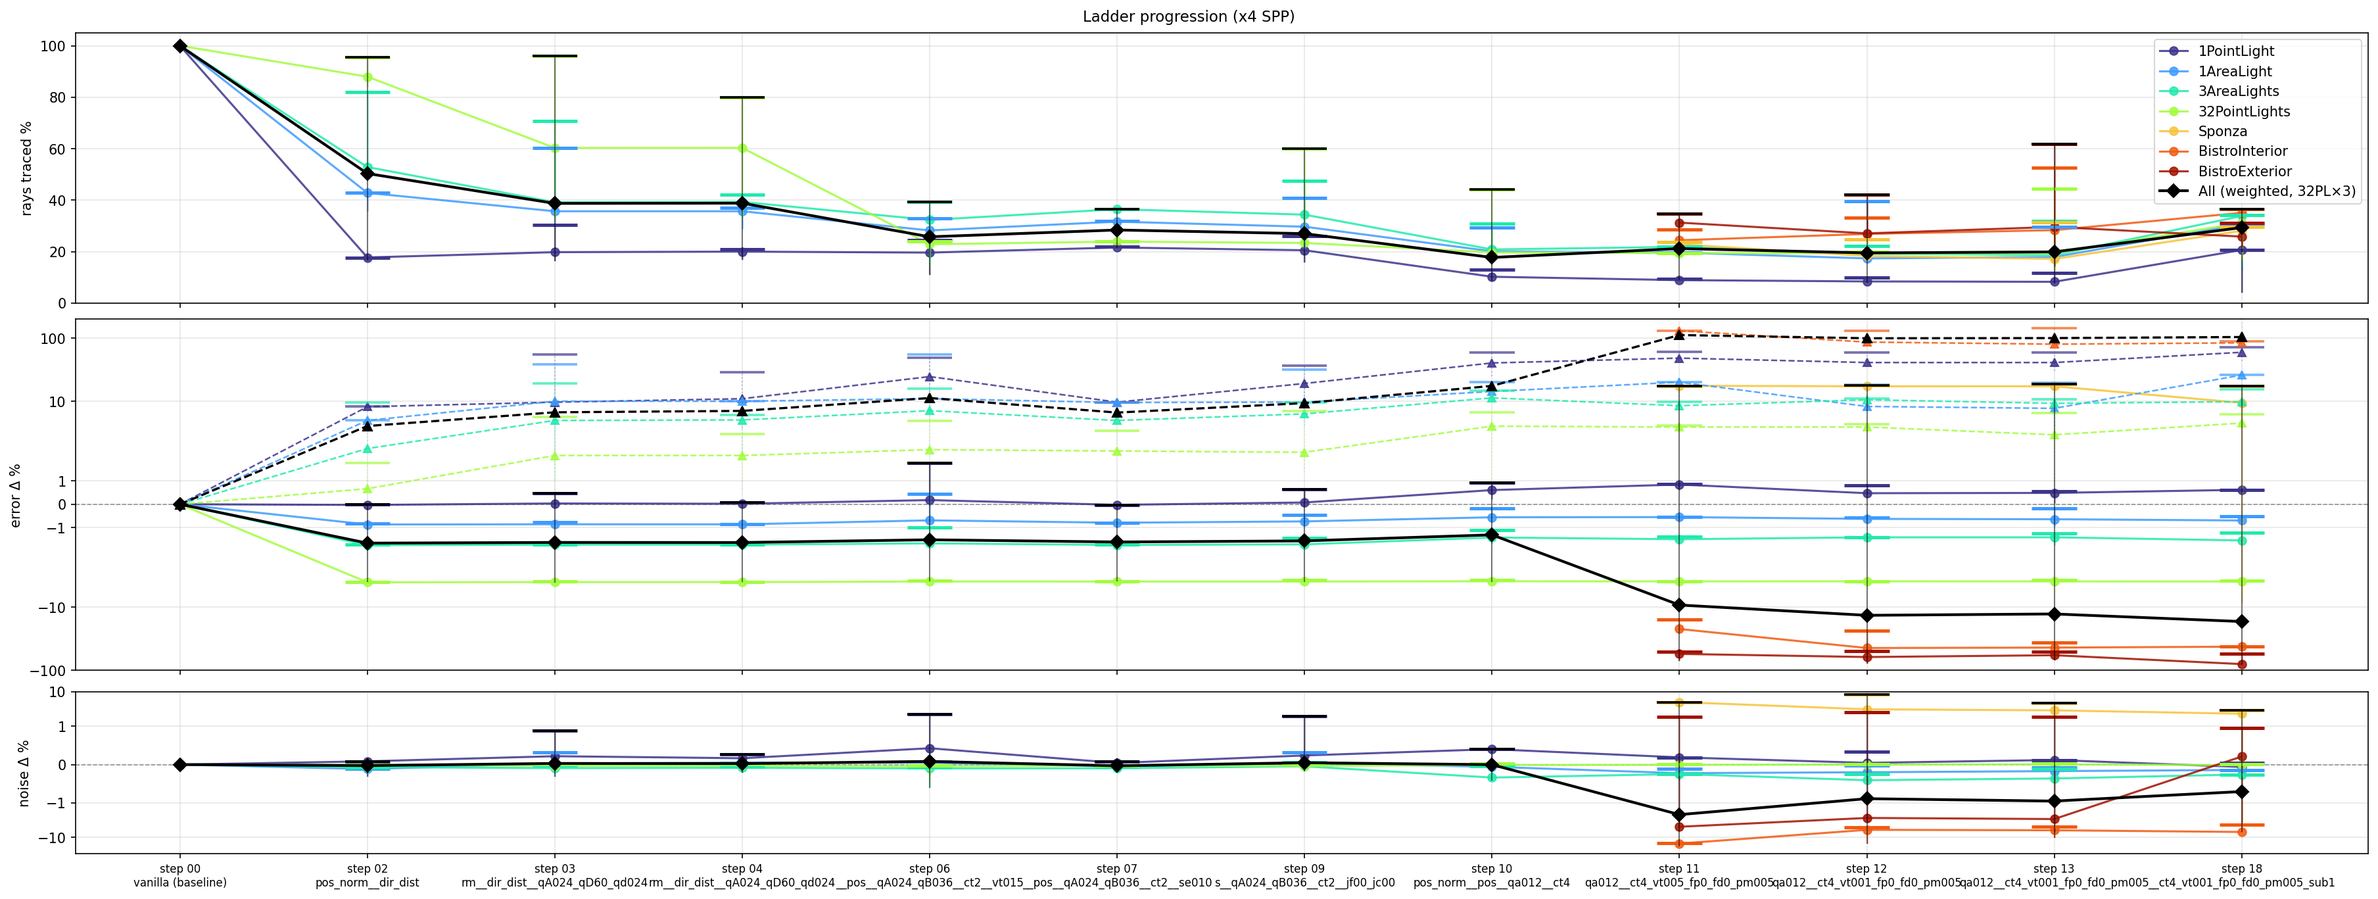
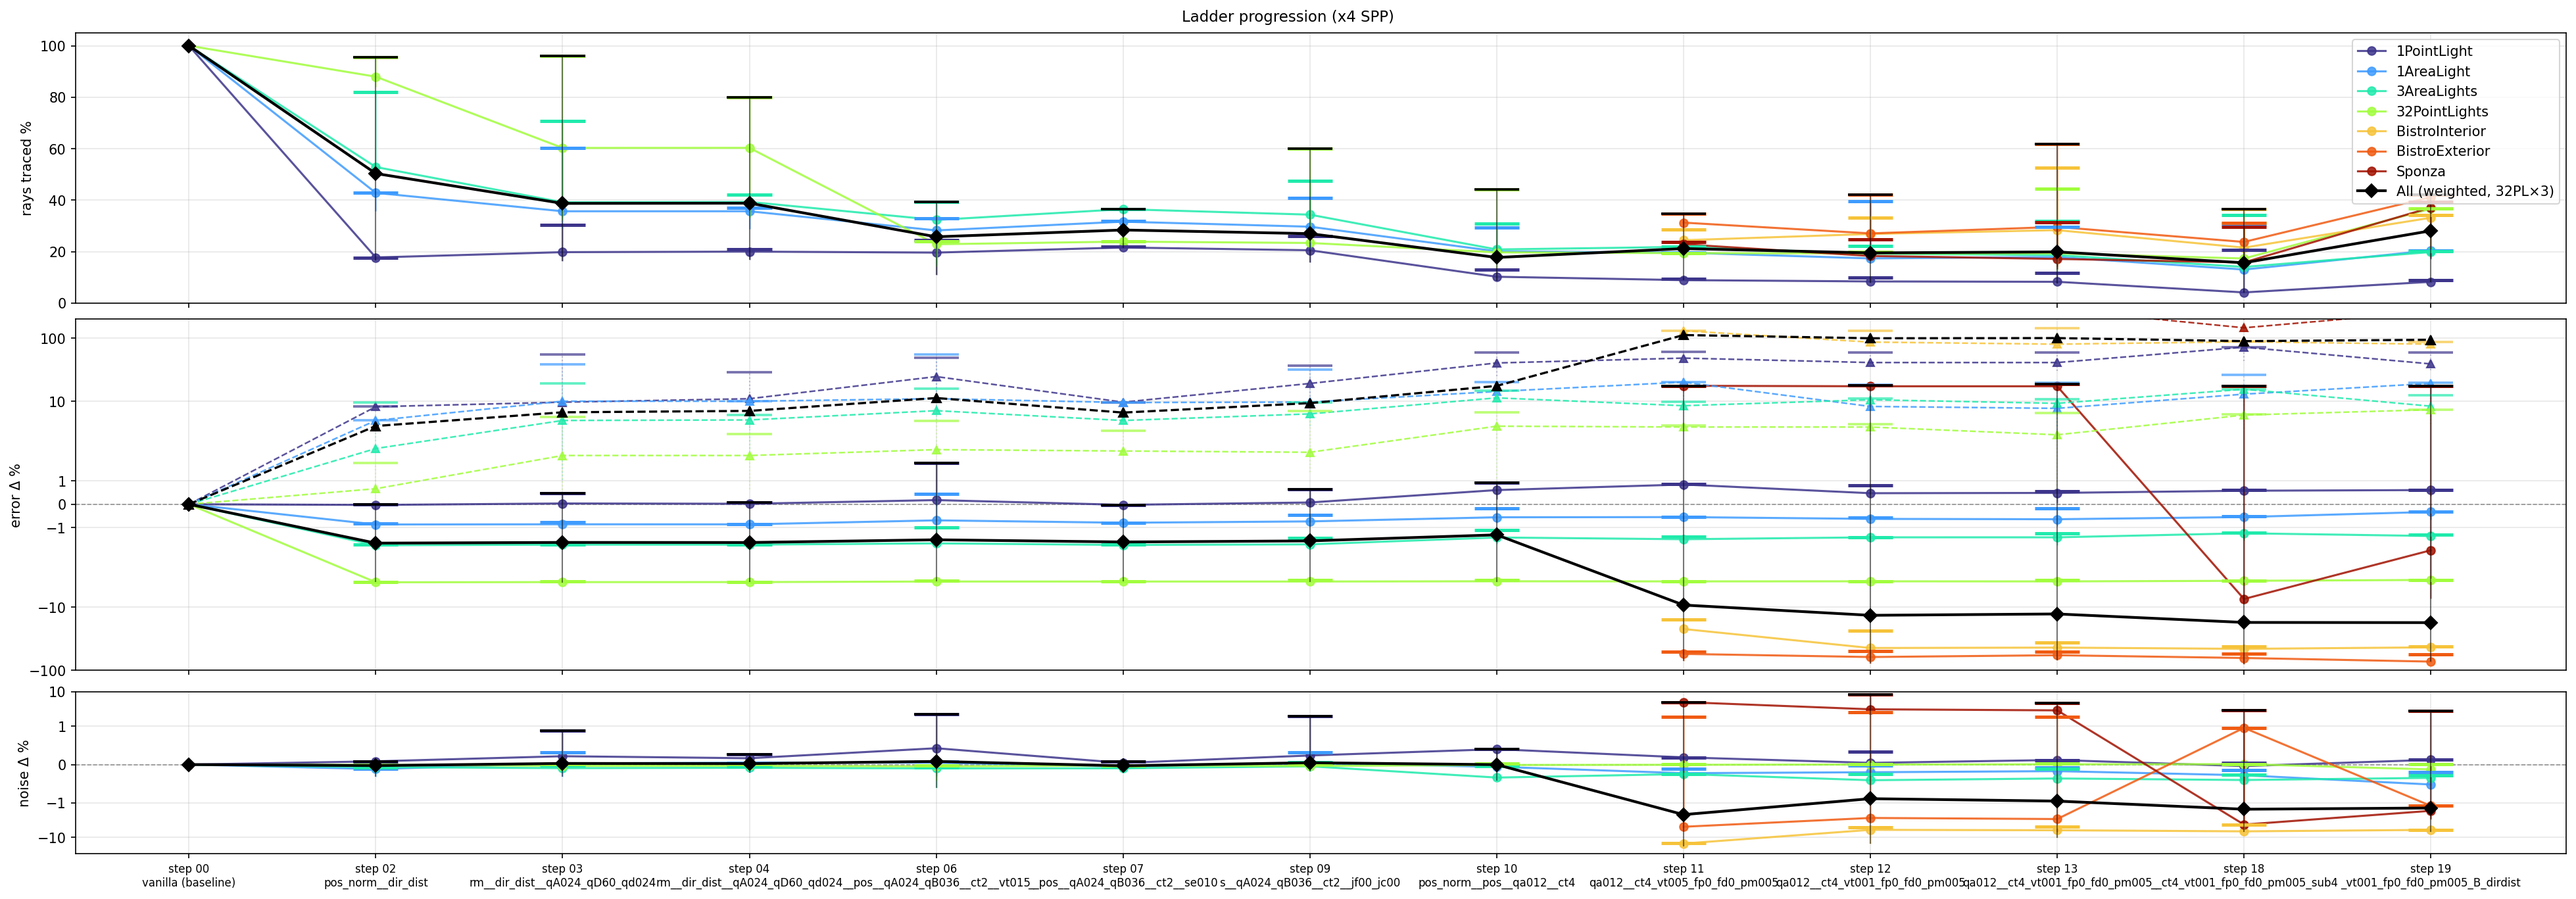
Step 19 dir_dist: second Sponza breakthrough + step 23 stack test
Step 19 (dir_dist addressing at step-12 carry, multi-frame):
- Sponza err +18.60% -> -1.77% (cache BEATS vanilla, 20% gain)
- BistroExt err -59.76% -> -69.43% (9.7% gain)
- BistroInt tied
- Cornell REGRESSES: 1PL blob 40.67 -> 53.53 (+32%), 32PL rays 24.64
  -> 38.83 (+58%)

Mechanism: direction-to-light + distance-to-light split cache cells,
separating shadow- vs light-facing samples that previously averaged
to biased μ. Different mechanism from step 18's sub4 Bayer grid.

Per-scene outlier gate: pos fails Sponza (+18.60 > median+25%),
dir_dist passes. Carry: pos_norm__dir_dist__qa012__ct4_vt001_fp0_fd0_pm005_B_dirdist

Step 23 stacks sub4 × dir_dist (4 variants): tests whether the two
independent Sponza fixes compound or saturate. Table capacity 2^26
to accommodate dir_dist cell growth.

diff --git a/scripts/VisCache_Ladder23.py b/scripts/VisCache_Ladder23.py
@@ -1,0 +1,138 @@
+"""
+VisCache_Ladder23.py — Step 23: stack sub4 + dir_dist (two orthogonal Sponza wins).
+
+Two independent Sponza breakthroughs discovered:
+- Step 18: sub4 (4×4 Bayer × multi-frame) → Sponza err +18.70% → -3.63%
+- Step 19: dir_dist addressing → Sponza err +18.60% → -1.77%
+
+They attack the bias problem via different mechanisms:
+- sub4: spatial slot rotation provides cells with samples from diverse
+  positions, averaging across the boundary
+- dir_dist: splits cells by direction-to-light, so shadow/light samples
+  don't mix in the same cell
+
+If mechanisms are independent, stacking should either:
+(a) improve further (both defenses compound)
+(b) saturate (either alone suffices)
+(c) hurt (over-dispersion — each sub-cell now has too few samples)
+
+Four variants at step-13 carry (ct4, vt001, pm005):
+  sub4_pos        — step 18 winner
+  sub2_dirdist    — step 19 winner
+  sub4_dirdist    — the stack
+  sub2_pos        — baseline (current multi-frame step-12 carry)
+
+4 × 6 × 7 = 168 runs. dirdist increases hash pressure; tableCapacity
+doubled for the dir_dist variants.
+
+Usage:
+    runtime/pythondist/python.exe scripts/run_ladder.py -s 23
+"""
+import os, sys
+sys.path.insert(0, os.path.dirname(os.path.abspath(__file__)))
+from VisCache_LadderCommon import run_variants, run_baseline, get_scenes, \
+    finalize_step, make_norm_variants, read_carried_winner, parse_variant_tags, \
+    write_picks_meta, _DEFAULT_PICKER_RULE, ALL_SCENES, \
+    PRESET_MINIMAL, RR_ADAPTIVE, LEVELS_MULTI, QUANT_SWEEP
+
+STEP = "23"
+res = int(os.environ.get("RES", "512"))
+
+INHERITED_NAME = read_carried_winner("13")
+if INHERITED_NAME is None:
+    raise RuntimeError("[23] step 13 picks.json missing.")
+
+_qa_tag = None
+for tok in INHERITED_NAME.split("__"):
+    if tok.startswith("qa") and tok[2:].isdigit():
+        _qa_tag = tok
+        break
+if _qa_tag is None:
+    raise RuntimeError(f"[23] cannot parse qa tag from {INHERITED_NAME}")
+QUANT_WINNER = QUANT_SWEEP[_qa_tag]
+
+INHERITED_TAGS = parse_variant_tags(INHERITED_NAME)
+CT_INH = int(INHERITED_TAGS.get("bootThreshold", 4))
+VT_INH = float(INHERITED_TAGS.get("varThreshold", 0.01))
+PM_INH = float(INHERITED_TAGS.get("pMin", 0.05))
+
+NO_JITTER = {"jitterFilter": 0.0, "jitterCell": 0.0}
+
+def _common(**extra):
+    return {
+        **NO_JITTER,
+        "bootThreshold":                 CT_INH,
+        "matureThreshold":               128,
+        "varThreshold":                  VT_INH,
+        "bootThresholdFactorFootprintPx": 0.0,
+        "forceDescendFootprintPx":       0,
+        "stderrThreshold":               0.0,
+        "enableHierarchicalConsistency": False,
+        "accelDecayDisagreeThresh":      0.0,
+        "pMin":                          PM_INH,
+        **QUANT_WINNER,
+        **extra,
+    }
+
+tag = f"ct{CT_INH}_vt{int(round(VT_INH*100)):03d}_fp0_fd0_pm{int(round(PM_INH*100)):03d}"
+
+VARIANTS_23 = [
+    (f"pos_norm__pos__{_qa_tag}__{tag}_sub2_pos", _common(
+        enableVisCacheDirDistAddr=False,
+        enableVisCacheNormalAddr=True,
+        subframeN=2,
+    )),
+    (f"pos_norm__pos__{_qa_tag}__{tag}_sub4_pos", _common(
+        enableVisCacheDirDistAddr=False,
+        enableVisCacheNormalAddr=True,
+        subframeN=4,
+    )),
+    (f"pos_norm__dir_dist__{_qa_tag}__{tag}_sub2_dirdist", _common(
+        enableVisCacheDirDistAddr=True,
+        enableVisCacheNormalAddr=True,
+        subframeN=2,
+    )),
+    (f"pos_norm__dir_dist__{_qa_tag}__{tag}_sub4_dirdist", _common(
+        enableVisCacheDirDistAddr=True,
+        enableVisCacheNormalAddr=True,
+        subframeN=4,
+    )),
+]
+
+STEP_OVERRIDES = {**RR_ADAPTIVE, **LEVELS_MULTI,
+                  "tableCapacity": 1 << 26}  # 2× for dir_dist cell growth
+
+MF_CONFIGS = [(1, 0, 1, 1),  (1, 0, 4, 1),  (1, 0, 16, 1),
+              (2, 0, 1, 1),  (2, 0, 4, 1),  (2, 0, 16, 1)]
+
+for scene_file in get_scenes(default=list(ALL_SCENES)):
+    run_baseline(
+        step_name="00",
+        frame_configs=[(0, 0, 1)],
+        scene_file=scene_file,
+        resX=res, resY=res,
+        extra_spp=[4, 16],
+        mogwai_globals=globals(),
+    )
+
+    run_variants(
+        step_name=STEP,
+        frame_configs=MF_CONFIGS,
+        scene_file=scene_file,
+        variants=VARIANTS_23,
+        resX=res, resY=res,
+        mogwai_globals=globals(),
+        step_overrides=STEP_OVERRIDES,
+    )
+
+finalize_step(STEP, inherited_winners=[INHERITED_NAME],
+              ref_step="13", ref_variant=INHERITED_NAME,
+              ref_label="step-13 carry (sub2, pos)")
+write_picks_meta(STEP, inherited_from="13", inherited=[INHERITED_NAME],
+                  carried={}, rule=_DEFAULT_PICKER_RULE,
+                  notes="Stacks sub4 × dir_dist — two orthogonal Sponza "
+                        "breakthroughs from steps 18 and 19. Tests whether "
+                        "the mechanisms compound (spatial slot rotation + "
+                        "directional cell split) or interfere (over-"
+                        "dispersion with too few samples per sub-cell).")
+_HEADLESS_SCRIPT_DONE = True
